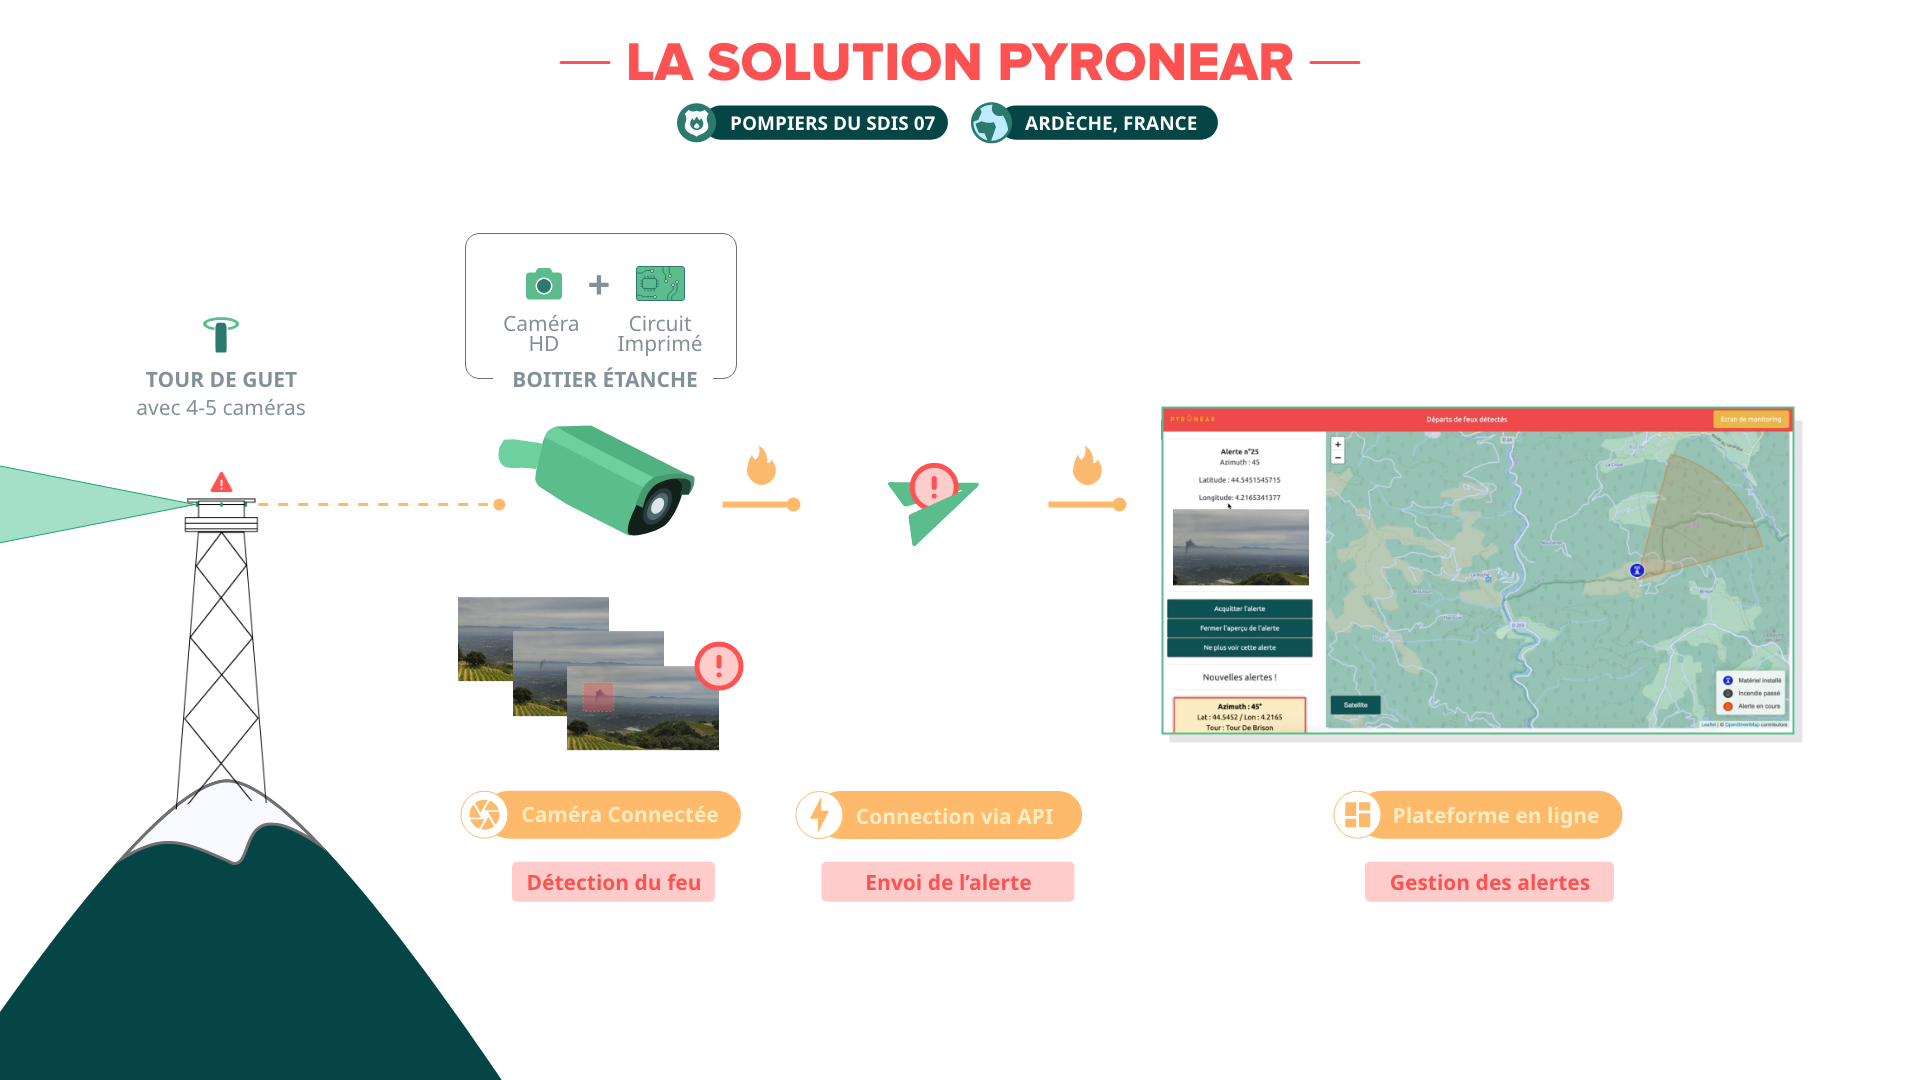
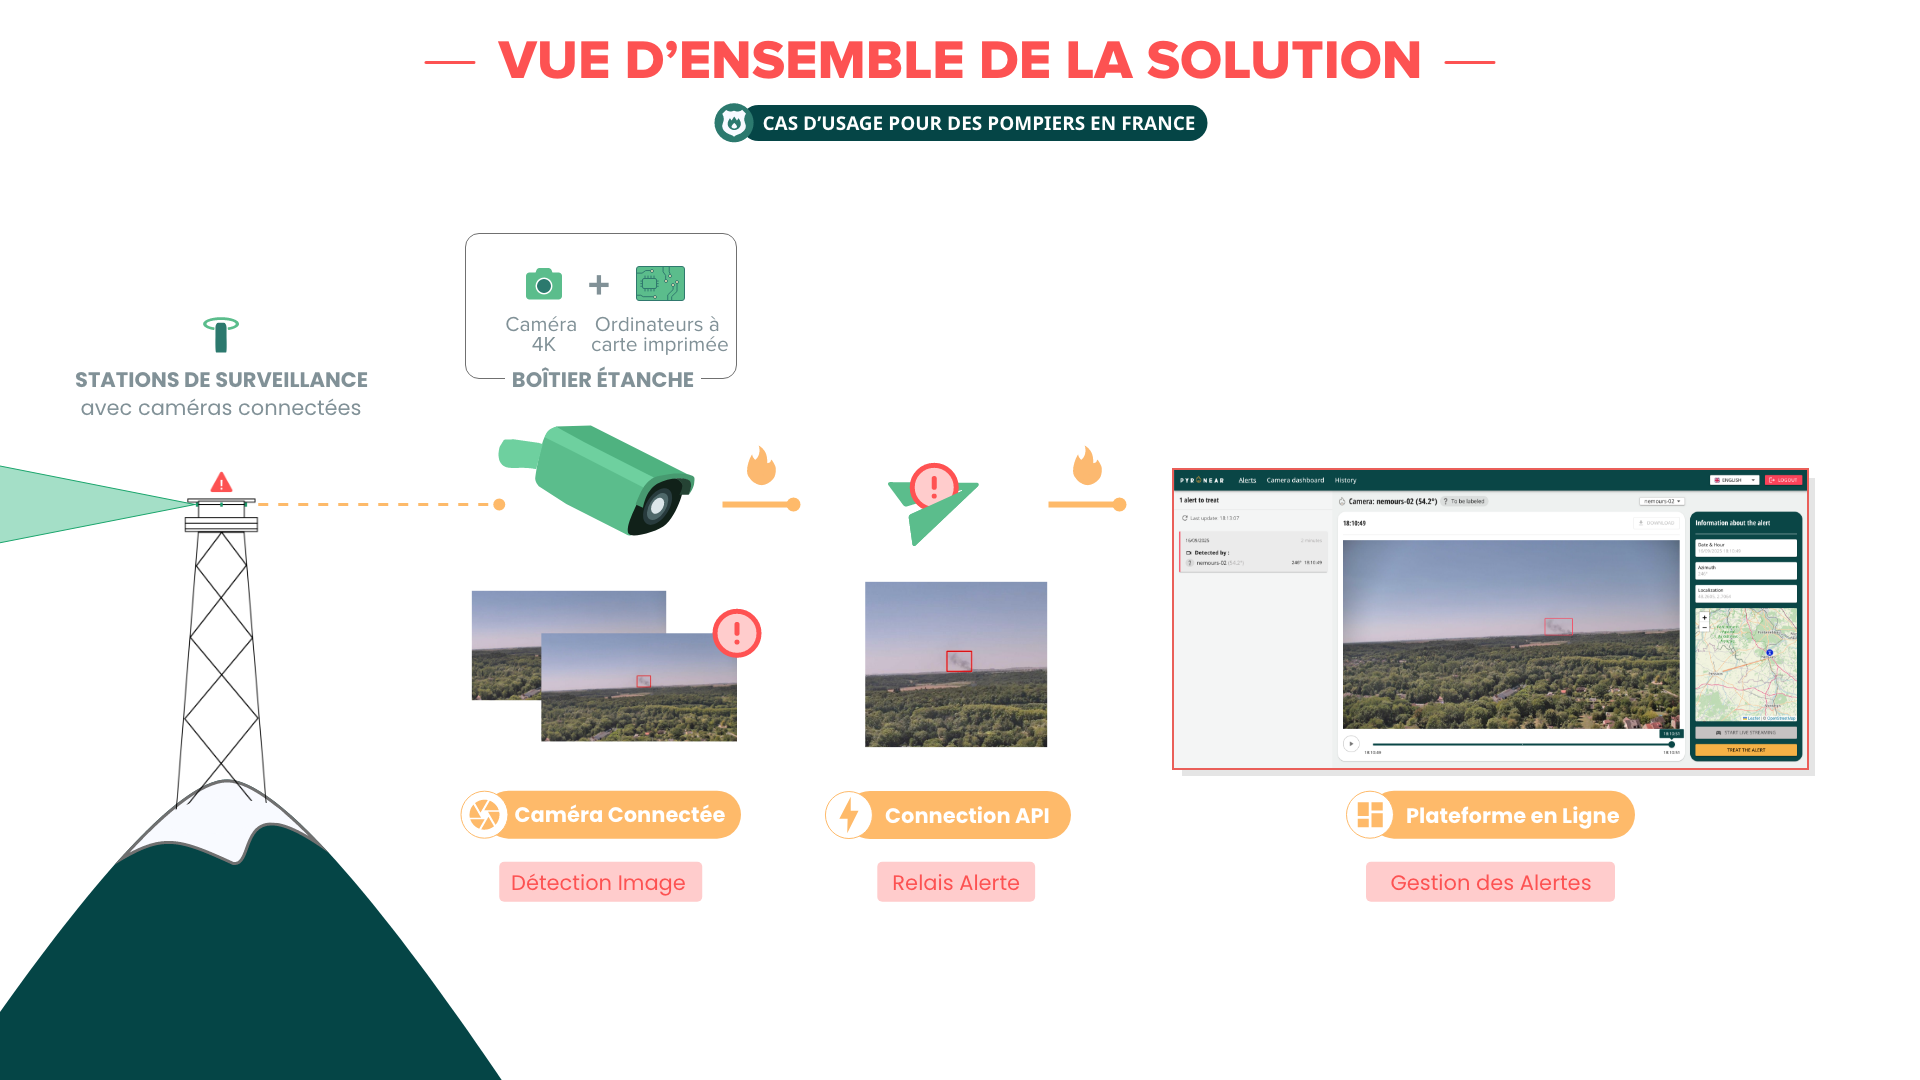
Improve layout and update images for media, partners, sponsors
Refactored the layout and styling of the media, partners, and sponsors sections for better visual consistency and responsiveness. Updated several partner and media logo URLs and adjusted image dimensions in _config.yml. Replaced images for 'solution.png' and 'solution - ENG.png' with new versions.

diff --git a/_includes/partners.html b/_includes/partners.html
@@ -1,4 +1,74 @@
 <section id="partners" class="section-style">
+  <style>
+    /* --- Partners Section Cleanup --- */
+
+    #partners .row {
+      display: flex;
+      flex-wrap: wrap;
+      justify-content: center;
+      gap: 30px;
+    }
+
+    #partners .col-md-4 {
+      flex: 0 1 300px; /* consistent width for partner boxes */
+      display: flex;
+    }
+
+    #partners .service-box {
+      display: flex;
+      flex-direction: column;
+      align-items: center;
+      justify-content: space-between;
+      text-align: center;
+      height: 100%;
+      padding: 20px;
+      box-sizing: border-box;
+      background: #fff; /* optional: helps each box stand out */
+      border-radius: 8px; /* optional aesthetic */
+    }
+
+    #partners .emoji img {
+      display: block;
+      max-width: 160px;
+      min-width: 130px; /* ensures SVGs with no intrinsic width remain visible */
+      max-height: 100px;
+      width: auto;
+      height: auto;
+      object-fit: contain;
+      margin: 0 auto 15px;
+    }
+
+    #partners h3 {
+      font-size: 1.2rem;
+      margin: 10px 0 8px;
+    }
+
+    #partners .text-muted {
+      font-size: 1.5rem;
+      font-weight: normal !important;
+      min-height: 40px; /* keeps descriptions more uniform */
+    }
+
+
+    #partners .service-box:hover {
+      transform: translateY(-4px);
+      transition: all 0.2s ease-in-out;
+    }
+
+    /* --- Responsive Tweaks --- */
+    @media (max-width: 992px) {
+      #partners .col-md-4 {
+        flex: 0 1 45%; /* two per row on tablets */
+      }
+    }
+
+    @media (max-width: 576px) {
+      #partners .col-md-4 {
+        flex: 0 1 90%; /* one per row on mobile */
+      }
+    }
+  </style>
+
   <div class="container">
     <div class="row">
       <div class="col-lg-12 text-center">
@@ -7,26 +77,24 @@
       </div>
     </div>
   </div>
+
   <div class="container">
-    <div class="row">
+    <div class="row align-items-stretch">
       {% for partner in site.t.[layout.lang].partners.items %}
       <div class="col-md-4 text-center">
         <div class="service-box">
           <p class="emoji">
             <a href="{{ partner.url }}">
-                <img 
-                  alt="{{ partner.title }}-logo"
-                  src="{{ partner.logo }}"
-                  width="{{ partner.width }}"
-                  height="{{ partner.height }}"
-                />
+              <img 
+                alt="{{ partner.title }}-logo"
+                src="{{ partner.logo }}"
+                width="{{ partner.width }}"
+                height="{{ partner.height }}"
+              />
             </a>
           </p>
-          <!-- <i class="fa fa-4x fa-diamond wow bounceIn text-primary"></i> -->
           <h3>{{ partner.title }}</h3>
-          <p class="text-muted">
-            {{ partner.content }}
-          </p>
+          <p class="text-muted">{{ partner.content }}</p>
         </div>
       </div>
       {% endfor %}

diff --git a/_includes/sponsors.html b/_includes/sponsors.html
@@ -1,4 +1,59 @@
 <section id="sponsors" class="section-style">
+  <style>
+    #sponsors .row {
+      display: flex;
+      flex-wrap: wrap;
+      justify-content: center;
+      gap: 30px;
+    }
+
+    #sponsors .col-md-4 {
+      flex: 0 1 300px; /* consistent width for sponsor boxes */
+      display: flex;
+    }
+
+    #sponsors .service-box {
+      display: flex;
+      flex-direction: column;
+      align-items: center;
+      justify-content: space-between;
+      text-align: center;
+      height: 100%;
+      padding: 15px;
+      box-sizing: border-box;
+      background: #fff; /* optional: makes each sponsor block pop */
+      border-radius: 8px; /* optional aesthetic */
+    }
+
+    #sponsors .emoji img {
+      display: block;
+      max-width: 160px;
+      min-width: 130px; /* ensures SVGs with no intrinsic width remain visible */
+      max-height: 100px;
+      width: auto;
+      height: auto;
+      object-fit: contain;
+      margin: 0 auto 15px;
+    }
+
+    #sponsors h3 {
+      font-size: 2.5rem;
+      margin: 10px 0 8px;
+    }
+
+    #sponsors .text-muted {
+      font-size: 1.5rem;
+      font-weight: normal !important;
+      min-height: 40px; /* keeps descriptions more uniform */
+    }
+
+    /* Subtle hover effect */
+    #sponsors .service-box:hover {
+      transform: translateY(-4px);
+      transition: all 0.2s ease-in-out;
+    }
+  </style>
+
   <div class="container">
     <div class="row">
       <div class="col-lg-12 text-center">
@@ -7,26 +62,24 @@
       </div>
     </div>
   </div>
+
   <div class="container">
-    <div class="row">
+    <div class="row align-items-stretch">
       {% for sponsor in site.t.[layout.lang].sponsors.items %}
       <div class="col-md-4 text-center">
         <div class="service-box">
           <p class="emoji">
             <a href="{{ sponsor.url }}">
-                <img 
-                  alt="{{ sponsor.title }}-logo"
-                  src="{{ sponsor.logo }}"
-                  width="{{ sponsor.width }}"
-                  height="{{ sponsor.height }}"
-                />
+              <img 
+                alt="{{ sponsor.title }}-logo"
+                src="{{ sponsor.logo }}"
+                width="{{ sponsor.width }}"
+                height="{{ sponsor.height }}"
+              />
             </a>
           </p>
-          <!-- <i class="fa fa-4x fa-diamond wow bounceIn text-primary"></i> -->
           <h3>{{ sponsor.title }}</h3>
-          <p class="text-muted">
-            {{ sponsor.content }}
-          </p>
+          <p class="text-muted">{{ sponsor.content }}</p>
         </div>
       </div>
       {% endfor %}

diff --git a/_includes/medias.html b/_includes/medias.html
@@ -1,4 +1,67 @@
 <section id="media" class="section-style">
+  <style>
+    /* --- Media Section Cleanup --- */
+
+    #media .row {
+      display: flex;
+      flex-wrap: wrap;
+      justify-content: center;
+      gap: 30px;
+    }
+
+    #media .col-md-4 {
+      flex: 0 1 300px; /* consistent width */
+      display: flex;
+    }
+
+    #media .service-box {
+      display: flex;
+      flex-direction: column;
+      align-items: center;
+      justify-content: space-between;
+      text-align: center;
+      height: 100%;
+      padding: 20px;
+      box-sizing: border-box;
+      background: #fff; /* optional visual separation */
+      border-radius: 8px; /* optional for a smoother design */
+    }
+
+    #media .emoji img {
+      display: block;
+      max-width: 160px;
+      min-width: 120px; /* ensures SVGs with no intrinsic width remain visible */
+      min-height: 50px;
+      max-height: 100px;
+      width: auto;
+      height: auto;
+      object-fit: contain;
+      margin: 0 auto 15px;
+    }
+    #media .text-muted {
+      font-size: 0.95rem;
+      min-height: 40px; /* keeps text blocks aligned */
+    }
+
+    #media .service-box:hover {
+      transform: translateY(-4px);
+      transition: all 0.2s ease-in-out;
+    }
+
+    /* --- Responsive Tweaks --- */
+    @media (max-width: 992px) {
+      #media .col-md-4 {
+        flex: 0 1 45%; /* two per row on tablets */
+      }
+    }
+
+    @media (max-width: 576px) {
+      #media .col-md-4 {
+        flex: 0 1 90%; /* one per row on mobile */
+      }
+    }
+  </style>
+
   <div class="container">
     <div class="row">
       <div class="col-lg-12 text-center">
@@ -7,27 +70,25 @@
       </div>
     </div>
   </div>
+
   <div class="container">
-    <div class="row">
+    <div class="row align-items-stretch">
       {% for media in site.medias.items %}
       <div class="col-md-4 text-center">
         <div class="service-box">
           <p class="emoji">
             <a href="{{ media.url }}">
               <img
-                alt="{{media.title}} logo"
+                alt="{{ media.title }} logo"
                 src="{{ media.logo }}"
                 width="{{ media.width }}"
                 height="{{ media.height }}"
               />
             </a>
           </p>
-          <!-- <i class="fa fa-4x fa-diamond wow bounceIn text-primary"></i> -->
-          <!-- <h3>{{ media.title }}</h3> -->
           <p class="text-muted">{{ media.content }}</p>
         </div>
       </div>
-
       {% endfor %}
     </div>
   </div>
